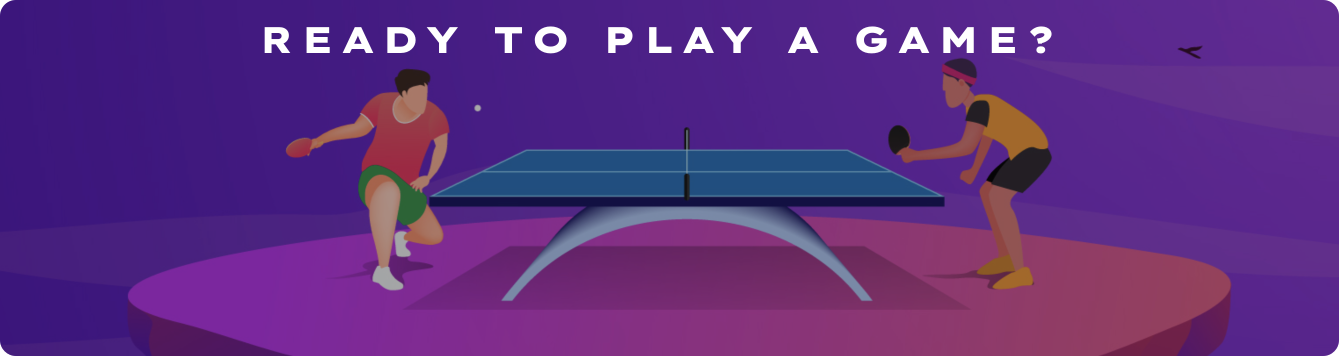
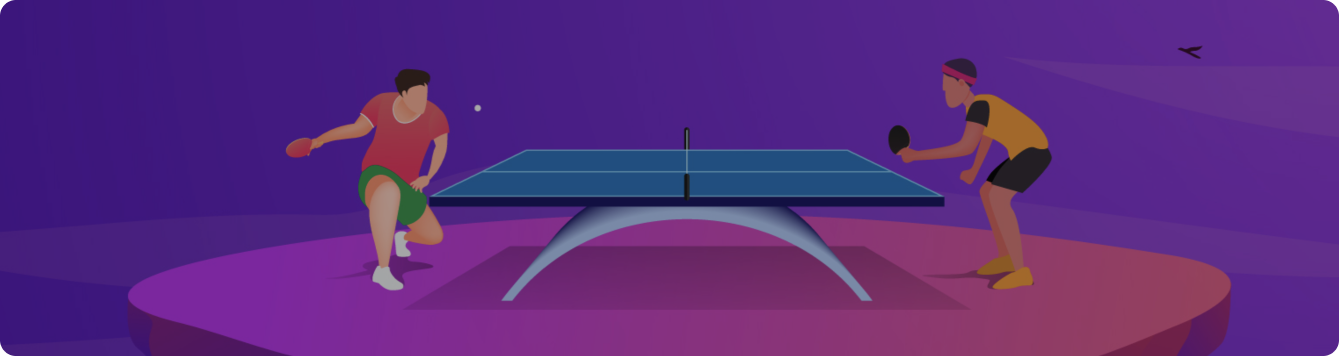
FIX:LAYOUT ADD:REVERSE PROXY IN PRODUCTION

Changed region(s): [[0.3674, 0.0618, 0.7961, 0.1545], [0.1837, 0.0618, 0.3368, 0.1545]]

diff --git a/frontend/code/src/Components/Profile/index.tsx b/frontend/code/src/Components/Profile/index.tsx
@@ -36,7 +36,7 @@ export const Profile = () =>{
     return (
         <>
         <div className=" flex flex-col items-center h-full min-h-screen">
-            <div className='relative pt-12 h-auto max-h-[30vh] min-h-[16vh] md:min-h-[28vh] w-[85vw]'>
+            <div className='relative pt-12 h-auto max-h-[30vh] min-h-[16vh] md:min-h-[28vh] xl:min-h-[33vh] w-[85vw]'>
                
                 <div className='relative h-full w-full md:px-32 bg-[#2b3bfb] rounded-t-3xl'><img className='flex-1  w-full h-auto object-scale-down md:object-top object-bottom rounded-t-3xl' src={Hero} alt="bg hero"></img>
                     <div className=' absolute  bg-black top-0 left-0  object-scale-down object-top  opacity-40 h-full w-full rounded-t-3xl  z-10'></div>
@@ -52,7 +52,7 @@ export const Profile = () =>{
                     </div>
                 </div>         
             </div>
-            <div className='relative flex flex-col gap-y-2 sm:gap-y-0 pl-4 sm:pt-12 pt-6 text-neutral font-montserrat bg-base-200  justify-start  items-start h-[15%] xl:h-[25%] min-h-[20%] rounded-b-3xl w-[85vw] overflow-scroll no-scrollbar'>
+            <div className='relative flex flex-col gap-y-2 sm:gap-y-0 pl-4 sm:pt-12 pt-6 text-neutral font-montserrat bg-base-200  justify-start  items-start h-[15%] xl:h-[25%] xl:min-h-[25%] min-h-[20%] rounded-b-3xl w-[85vw] overflow-scroll no-scrollbar'>
                     {
                             users?.name?.first ? <h6>{users?.name?.first} </h6>: <Load/>
                     }                <div className="flex justify-center items-center gap-x-2">

diff --git a/frontend/code/src/Components/Settings/index.tsx b/frontend/code/src/Components/Settings/index.tsx
@@ -27,7 +27,7 @@ export const Setting = () => {
                 <div className=" h-[82%] w-[90%] flex flex-col absolute bottom-0 right-0 bg-base-200 rounded-tl-2xl">
                     <h2 className='pt-4 pl-4 text-neutral'>change preview</h2>
                     <div className="flex justify-center h-full w-full pt-8">
-                        <div className="flex flex-col sm:flex-row sm:flex-wrap items-center gap-4 justify-between overflow-auto  w-[90%]  max-h-[20vh] bg-base-100 border-solid border-gray-400 border-2  rounded-3xl">
+                        <div className="flex flex-col sm:flex-row sm:flex-wrap items-center gap-4 justify-between overflow-auto  w-[90%]  max-h-[20vh]  bg-base-100 border-solid border-gray-400 border-2  rounded-3xl">
                             <div className='flex justify-between items-center gap-x-10 px-2 sm:px-0'>
                                 <div className='relative sm:pl-10 pt-2 sm:pt-0'><Avatar picture={myuser.picture.medium}/>
                                     <div className="absolute bottom-0 right-0">

diff --git a/frontend/code/src/Components/Home/assets/Button.tsx b/frontend/code/src/Components/Home/assets/Button.tsx
@@ -4,7 +4,7 @@ import  toast from 'react-hot-toast';
 export const Button = () => {
     return (
         <div onClick={() => {toast.success("Waiting Opponenet")}} className="mystyle transition duration-500 hover:-translate-y-1 hover:scale-110 ease-in-out hover:cursor-pointer hover:fill-primary flex absolute justify-center items-center left-[36%] sm:left-[41.4%] top-[66%] sm:top-3/4   w-[27vw] sm:w-[17.5vw]">
-            <span className=" absolute text-white font-montserrat text-[1.4vw] xl:text-[0.8vw]">PLAY NOW</span>
+            <span className=" absolute text-white font-montserrat text-[1.4vw] xl:text-[0.99vw]">PLAY NOW</span>
             <svg width="211" height="57" viewBox="0 0 211 57" fill="none" xmlns="http://www.w3.org/2000/svg">
                 <rect className="" x="0.84375" width="209.158" height="57" rx="6" fill="url(#paint0_linear_377_5387)"/>
 

diff --git a/frontend/code/src/Components/Home/index.tsx b/frontend/code/src/Components/Home/index.tsx
@@ -12,6 +12,9 @@ export const Home : FC = () : JSX.Element =>{
                 <div className='flex justify-center relative items-start pt-6 h-2/6 max-h-48 sm:max-h-96 w-[90vw] sm:h-3/4 sm:w-[85vw]'>
                     <img className='w-full h-full object-cover object-top rounded-3xl' alt='leaderboard hero' src={herosvg} />
                     <Link to={"/Play"}><Button/></Link>
+                    
+                        <div className='absolute xl:text-4xl md:text-3xl sm:text-2xl   flex top-[15%] right-2/6 text-neutral font-lexend font-extrabold'>READY TO PLAY A GAME? </div>
+                   
                 </div>
                 <div className='flex justify-center relative items-start pt-6 h-3/6 w-[90vw] sm:h-3/4 sm:w-[85vw]'>
                     <LeaderBoard/>
